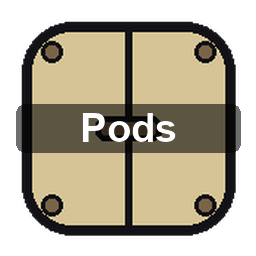
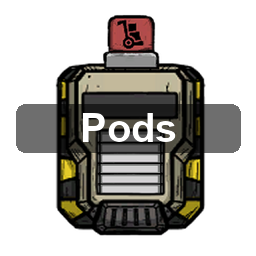
Ship the original pod art by 3GuB, used with permission
3GuB, who drew the Storage Pod and Cool Pod animations for the original
mod, agreed on 2026-09-30 to their reuse here. The placeholder art and
its generator are gone; the kanims are the originals, in folders named
for the kanim names the configs expect. README, mod.yaml, and the
Workshop description credit the art.

Claude-Session: https://claude.ai/code/session_013qxFyrWpteqeE9RqkvYBoL

diff --git a/README.md b/README.md
@@ -5,7 +5,7 @@ An [Oxygen Not Included](https://www.klei.com/games/oxygen-not-included) mod tha
 - **Storage Pod**: a Storage Bin in one cell. Holds 5,000 kg of solids (configurable), needs no power, costs 100 kg of Refined Metal, and unlocks with Refined Renovations. Found under Base > Storage, next to the Storage Bin.
 - **Cool Pod**: a fridge in one cell. Holds 50 kg of food (configurable), uses 60 W, dropping to 10 W once everything inside is cold, costs 100 kg of Refined Metal, and unlocks with Agriculture. Found under Food > Storage, next to the Refrigerator. Satisfies the Kitchen room's refrigerator requirement and has the same Full automation output.
 
-It is a from-scratch rewrite of Skyrunner's [Storage Pod](https://steamcommunity.com/sharedfiles/filedetails/?id=1873476551), whose Cool Pod has crashed on completion since the Sweet Dreams update (`Refrigerator.OnSpawn` needs a `FoodStorage` component that mod never added). The Cool Pod here is built the way the game builds its own Mini Fridge, so it cools, saves power, and keeps working in flight. Prefab IDs are the original mod's (`StoragePodConfig`, `CoolPodConfig`), so a save made with the original keeps its pods when you switch; do not run both mods at once (if you do, this one steps aside and logs a warning).
+It is a from-scratch rewrite of the code of Skyrunner's [Storage Pod](https://steamcommunity.com/sharedfiles/filedetails/?id=1873476551), whose Cool Pod has crashed on completion since the Sweet Dreams update (`Refrigerator.OnSpawn` needs a `FoodStorage` component that mod never added). The Cool Pod here is built the way the game builds its own Mini Fridge, so it cools, saves power, and keeps working in flight. Prefab IDs are the original mod's (`StoragePodConfig`, `CoolPodConfig`), so a save made with the original keeps its pods when you switch; do not run both mods at once (if you do, this one steps aside and logs a warning).
 
 ## Options
 
@@ -37,7 +37,9 @@ dotnet build src/StoragePodRedux -c Release -p:GameFolder="<path-to>\OxygenNotIn
 
 A successful build merges [PLib](https://github.com/peterhaneve/ONIMods/tree/main/PLib) into the DLL and deploys the mod to `Documents\Klei\OxygenNotIncluded\mods\local\StoragePodRedux` (disable with `-p:ModDeployFolder=none`).
 
-Art: `tools/make_art.py` builds both kanims from `publish/sprite-storage.png` and `publish/sprite-cool.png`, drawing simple placeholder pods when those files are absent. Each kanim carries the `off`/`on`/`working` states the game's `StorageController` plays, a white-outline `place` ghost, the build-menu `ui` icon, and the 16-frame `meter` fill gauge (plus, for the Cool Pod, the 2-frame `logicmeter`) that `FilteredStorage` drives.
+## Art
+
+The Storage Pod and Cool Pod animations are the original mod's, drawn by 3GuB and used here with their permission (asked and granted 2026-09-30). They are shipped as-is under `src/StoragePodRedux/anim/assets/`; the code was rewritten, the art was not.
 
 ## Implementation notes
 
